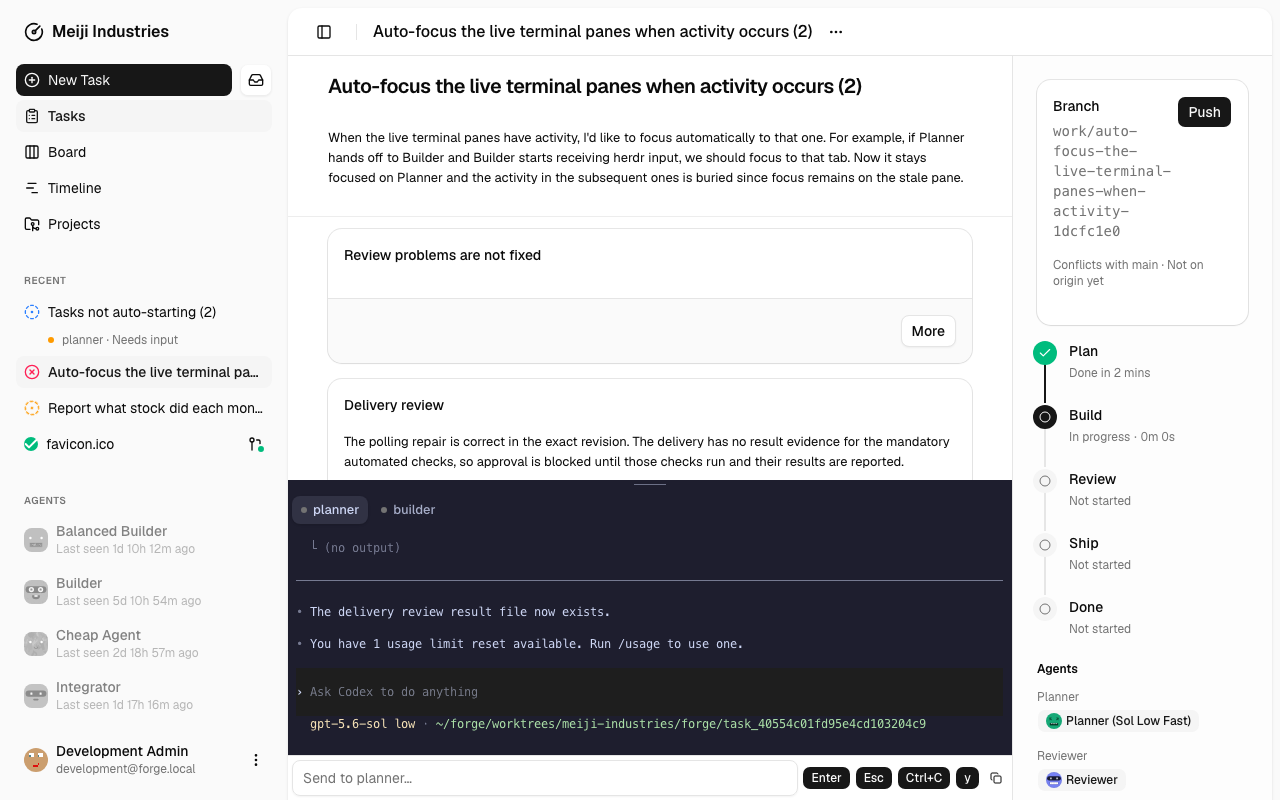
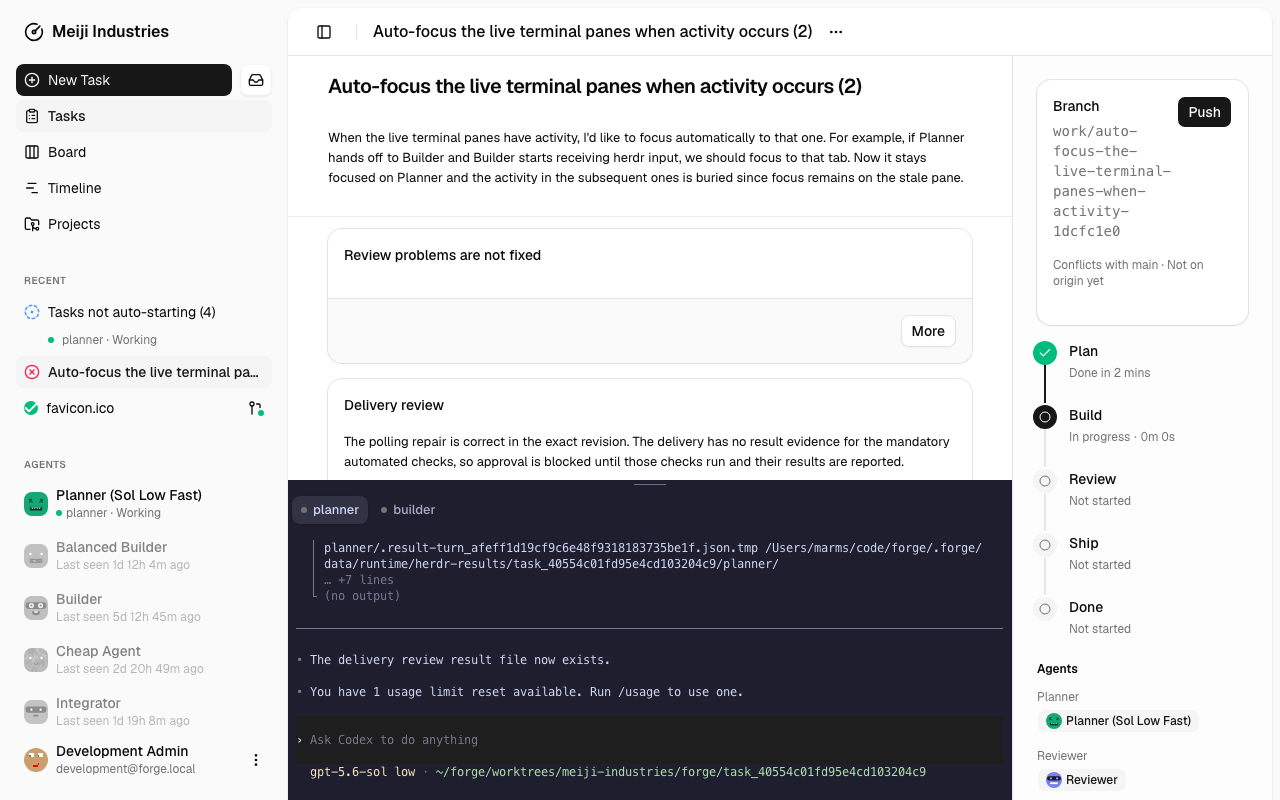
feat: drop the pane input bar; the live terminal takes keyboard input directly
- remove the Send-to-role input, quick-key buttons, and copy-attach button under each pane
- LivePaneTerminal no longer takes attachCommand or onInput; the dock drops its POST input helper
- the pane input route stays for the chat composer

Plan: docs/plans/2026-09-03-herdr-native-panes-and-desktop.md

diff --git a/src/frontend/components/app/task-chat/task-chat.tsx b/src/frontend/components/app/task-chat/task-chat.tsx
@@ -1,4 +1,4 @@
-import { useCallback, useEffect, useMemo, useRef, useState, type KeyboardEvent as ReactKeyboardEvent, type PointerEvent as ReactPointerEvent } from "react";
+import { useEffect, useMemo, useRef, useState, type KeyboardEvent as ReactKeyboardEvent, type PointerEvent as ReactPointerEvent } from "react";
 
 import { PullRequestCard } from "../pull-request-card.js";
 import { buildChatTranscript, sortChatItems, type ChatItem } from "../../../lib/task-chat.js";
@@ -72,10 +72,6 @@ export function LivePaneDock({ task, onRestart }: { task: ApiTask; onRestart: (c
   const [selectedRole, setSelectedRole] = useState<string>();
   const [height, setHeight] = useState(readLivePaneHeight);
   const resize = useRef<{ originY: number; height: number } | null>(null);
-  const load = useCallback(async () => {
-    const paneResult = await readJson<LivePaneResponse>(`/api/tasks/${encodeURIComponent(task.id)}/pane`);
-    setPanes(paneResult.panes ?? []);
-  }, [task.id]);
   useEffect(() => {
     let active = true;
     const refresh = async (): Promise<void> => {
@@ -91,13 +87,6 @@ export function LivePaneDock({ task, onRestart }: { task: ApiTask; onRestart: (c
     stream.addEventListener("panes", (message) => { try { const statuses = JSON.parse((message as MessageEvent<string>).data) as Array<{ role: string; paneId: string | null; status: string | null }>; if (active) setPanes((current) => current.map((pane) => ({ ...pane, ...(statuses.find((status) => status.role === pane.role) ?? {}) }))); } catch { /* Ignore malformed live state. */ } });
     return () => { active = false; stream.close(); };
   }, [task.id]);
-  const sendPaneInput = async (role: string, input: { text: string } | { keys: string[] }): Promise<void> => {
-    try {
-      await readJson(`/api/tasks/${encodeURIComponent(task.id)}/pane/${encodeURIComponent(role)}/input`, { method: "POST", body: JSON.stringify(input) });
-    } finally {
-      void load().catch(() => {});
-    }
-  };
   const selectedPane = selectedLivePane(panes, selectedRole);
   const retryCommand = STEP_RETRY_COMMAND[task.step];
   const restartable = task.owner !== "human" && (selectedPane?.status === "failed" || selectedPane?.status === "done");
@@ -137,7 +126,7 @@ export function LivePaneDock({ task, onRestart }: { task: ApiTask; onRestart: (c
   return selectedPane ? <section className="sticky bottom-0 z-10 flex flex-col bg-[#1e1e2e]" aria-label="Live agent output" style={{ height }}><div role="slider" tabIndex={0} aria-label="Resize live agent output" aria-orientation="vertical" aria-valuemin={minimumLivePaneHeight} aria-valuemax={maximumLivePaneHeight} aria-valuenow={height} aria-valuetext={`${height} pixels`} className="flex h-2 shrink-0 cursor-row-resize touch-none items-center justify-center focus-visible:outline-none focus-visible:ring-1 focus-visible:ring-inset focus-visible:ring-[#cdd6f4]" title="Drag to resize live output" onKeyDown={adjustResize} onPointerDown={startResize} onPointerMove={updateResize} onPointerUp={(event) => endResize(event, true)} onPointerCancel={(event) => endResize(event, false)}><span aria-hidden="true" className="h-px w-8 bg-[#6c7086]" /></div><Tabs className="min-h-0 flex-1 gap-0" value={selectedPane.role} onValueChange={setSelectedRole}><div className="flex shrink-0 items-center gap-1 overflow-x-auto bg-[#1e1e2e] px-1 pt-1" aria-label="Live pane tabs"><TabsList className="h-8 gap-1 rounded-none bg-transparent p-0">{panes.map((pane) => {
     const status = livePaneStatus(pane.status);
     return <TabsTrigger aria-label={`${pane.role}: ${status.label}`} className="group h-7 flex-none gap-1.5 rounded-md px-2 text-[13px] font-medium text-[#a6adc8] hover:bg-[#313244] hover:text-[#cdd6f4] data-active:bg-[#313244] data-active:text-[#cdd6f4] data-active:shadow-[inset_0_1px_0_rgb(255_255_255_/_0.08)]" key={pane.role} title={status.label} value={pane.role}><span aria-hidden="true" className={`size-1.5 shrink-0 rounded-full ${status.dotClass}`} />{pane.role}</TabsTrigger>;
-  })}</TabsList>{restartable ? <Button size="xs" variant="outline" onClick={() => void onRestart(retryCommand && task.allowedCommands.includes(retryCommand) ? retryCommand : undefined)}>Restart {selectedPane.role}</Button> : null}</div><TabsContent className="mt-0 min-h-0" value={selectedPane.role}><LivePaneTerminal taskId={task.id} role={selectedPane.role} paneId={selectedPane.paneId} attachCommand={selectedPane.attachCommand} onInput={(input) => sendPaneInput(selectedPane.role, input)} /></TabsContent></Tabs></section> : null;
+  })}</TabsList>{restartable ? <Button size="xs" variant="outline" onClick={() => void onRestart(retryCommand && task.allowedCommands.includes(retryCommand) ? retryCommand : undefined)}>Restart {selectedPane.role}</Button> : null}</div><TabsContent className="mt-0 min-h-0" value={selectedPane.role}><LivePaneTerminal taskId={task.id} role={selectedPane.role} paneId={selectedPane.paneId} /></TabsContent></Tabs></section> : null;
 }
 
 

diff --git a/src/frontend/components/app/task-chat/live-pane-terminal.tsx b/src/frontend/components/app/task-chat/live-pane-terminal.tsx
@@ -6,11 +6,8 @@ import { Terminal } from "@xterm/xterm";
 import "@xterm/xterm/css/xterm.css";
 import { type JSX, useEffect, useRef, useState } from "react";
 import { Button } from "../../ui/button.js";
-import { Input } from "../../ui/input.js";
-import { CopyButton } from "../copy-button.js";
 
 export type TerminalStatus = "connecting" | "live" | "reconnecting" | "taken_over" | "ended";
-type PaneInput = { text: string } | { keys: string[] };
 
 export function wheelToScroll(deltaY: number, rowHeightPx: number): { direction: "up" | "down"; lines: number } | null {
   if (Math.abs(deltaY) < 1) return null;
@@ -25,9 +22,8 @@ export function statusForClosedReason(reason: string): "taken_over" | "ended" {
   return reason.includes("taken over") ? "taken_over" : "ended";
 }
 
-export function LivePaneTerminal({ taskId, role, paneId, attachCommand, onInput }: { taskId: string; role: string; paneId: string | null; attachCommand: string; onInput: (input: PaneInput) => Promise<void> }): JSX.Element {
+export function LivePaneTerminal({ taskId, role, paneId }: { taskId: string; role: string; paneId: string | null }): JSX.Element {
   const hostRef = useRef<HTMLDivElement | null>(null);
-  const inputRef = useRef<HTMLInputElement | null>(null);
   const socketRef = useRef<WebSocket | null>(null);
   const statusRef = useRef<TerminalStatus>(paneId ? "connecting" : "ended");
   const [status, setStatus] = useState<TerminalStatus>(paneId ? "connecting" : "ended");
@@ -96,11 +92,6 @@ export function LivePaneTerminal({ taskId, role, paneId, attachCommand, onInput 
     connect();
     return () => { disposed = true; window.clearTimeout(retry); window.clearTimeout(resizeTimer); observer.disconnect(); data.dispose(); binary.dispose(); socketRef.current?.close(1000); socketRef.current = null; terminal.dispose(); };
   }, [connection, paneId, role, taskId]);
-  const sendInput = (text: string, fallback: PaneInput): void => {
-    const socket = socketRef.current;
-    if (statusRef.current === "live" && socket?.readyState === WebSocket.OPEN) socket.send(new TextEncoder().encode(text)); else void onInput(fallback);
-  };
-  const sendText = (): void => { const input = inputRef.current; if (!input?.value) return; const text = input.value; input.value = ""; sendInput(`${text}\r`, { text }); };
   const overlay = status === "connecting" ? "Connecting…" : status === "reconnecting" ? "Reconnecting…" : status === "taken_over" ? "Another viewer took control" : status === "ended" ? (paneId ? "Pane ended" : "No live pane") : null;
-  return <div className="flex h-full min-h-0 flex-col"><div className="relative mt-1 min-h-0 flex-1 overflow-hidden bg-[#1e1e2e] p-2"><div aria-label={`Live pane output for ${role}`} className="h-full" ref={hostRef} />{overlay ? <div className="absolute inset-0 flex items-center justify-center gap-2 bg-[#1e1e2e]/85 text-sm text-[#cdd6f4]">{overlay}{status === "taken_over" ? <Button size="xs" onClick={() => { setConnection((value) => value + 1); statusRef.current = "connecting"; setStatus("connecting"); }}>Take control</Button> : null}</div> : null}{showJump ? <Button className="absolute bottom-2 right-2" size="xs" onClick={() => { if (socketRef.current?.readyState === WebSocket.OPEN) socketRef.current.send(JSON.stringify({ type: "scroll", direction: "down", lines: 65_535 })); setShowJump(false); }}>Jump to bottom</Button> : null}</div><form className="flex shrink-0 items-center gap-1 border-t bg-background p-1" data-pane-input onSubmit={(event) => { event.preventDefault(); sendText(); }}><Input aria-label={`Send to ${role}`} placeholder={`Send to ${role}…`} ref={inputRef} /><Button size="xs" type="button" onClick={() => sendInput("\r", { keys: ["enter"] })}>Enter</Button><Button size="xs" type="button" onClick={() => sendInput("\x1b", { keys: ["esc"] })}>Esc</Button><Button size="xs" type="button" onClick={() => sendInput("\x03", { keys: ["ctrl+c"] })}>Ctrl+C</Button><Button size="xs" type="button" onClick={() => sendInput("y", { keys: ["y"] })}>y</Button><CopyButton value={attachCommand} label="Copy attach command" /></form></div>;
+  return <div className="flex h-full min-h-0 flex-col"><div className="relative mt-1 min-h-0 flex-1 overflow-hidden bg-[#1e1e2e] p-2"><div aria-label={`Live pane output for ${role}`} className="h-full" ref={hostRef} />{overlay ? <div className="absolute inset-0 flex items-center justify-center gap-2 bg-[#1e1e2e]/85 text-sm text-[#cdd6f4]">{overlay}{status === "taken_over" ? <Button size="xs" onClick={() => { setConnection((value) => value + 1); statusRef.current = "connecting"; setStatus("connecting"); }}>Take control</Button> : null}</div> : null}{showJump ? <Button className="absolute bottom-2 right-2" size="xs" onClick={() => { if (socketRef.current?.readyState === WebSocket.OPEN) socketRef.current.send(JSON.stringify({ type: "scroll", direction: "down", lines: 65_535 })); setShowJump(false); }}>Jump to bottom</Button> : null}</div></div>;
 }
